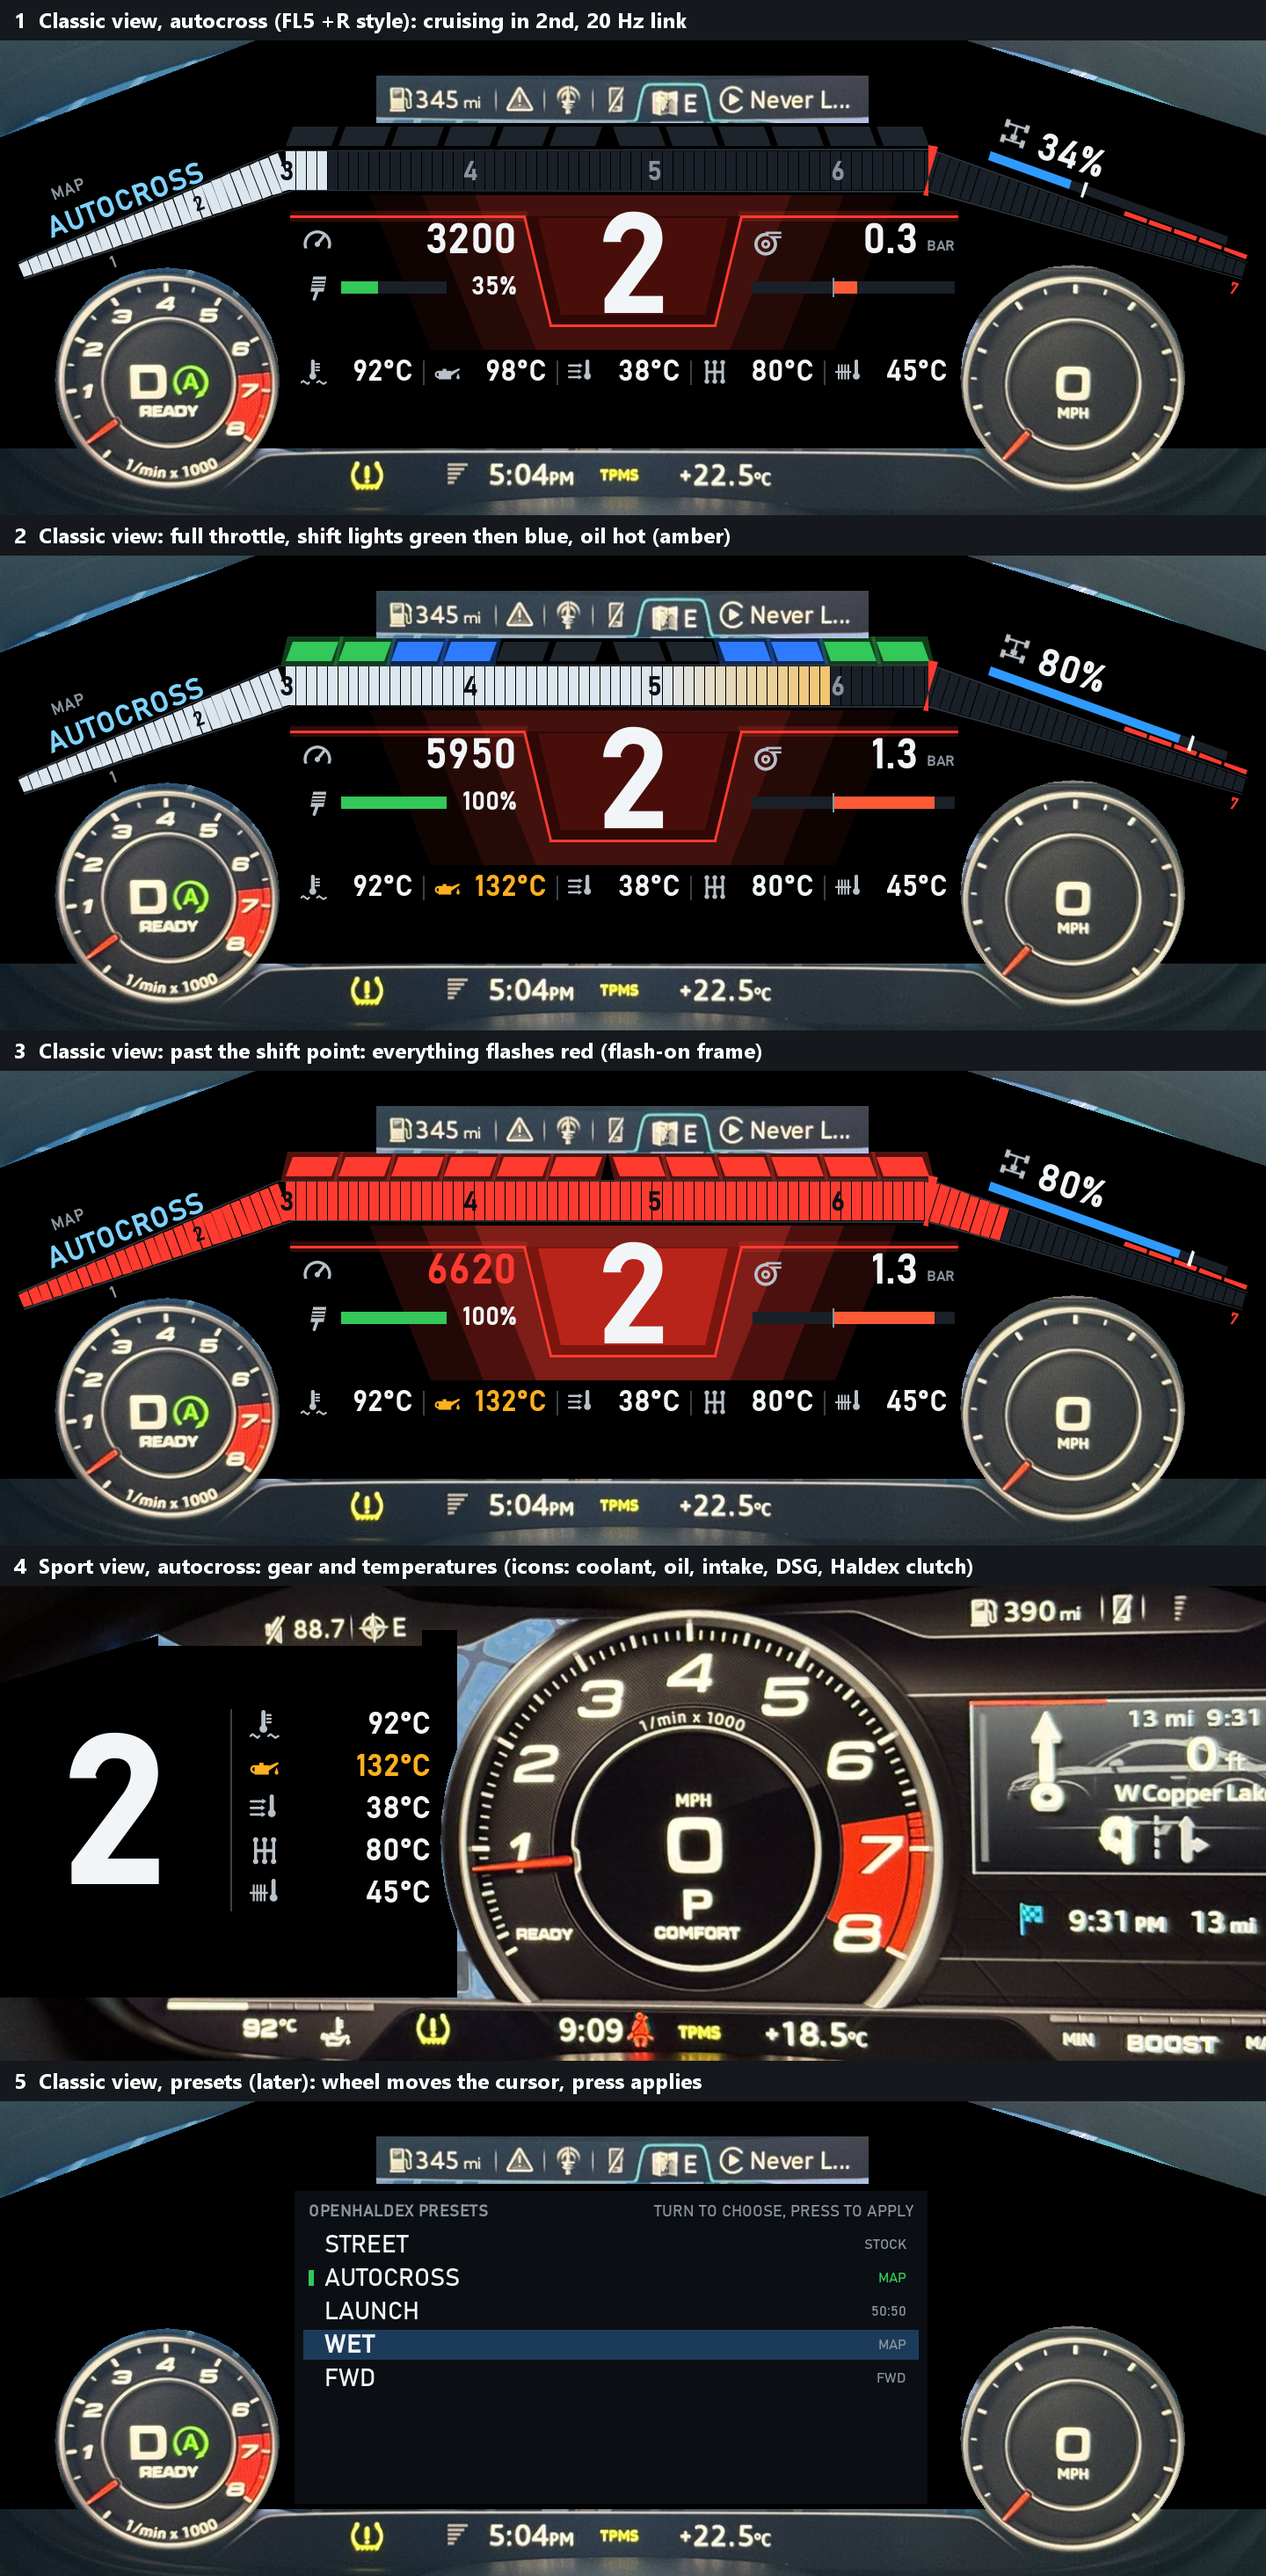
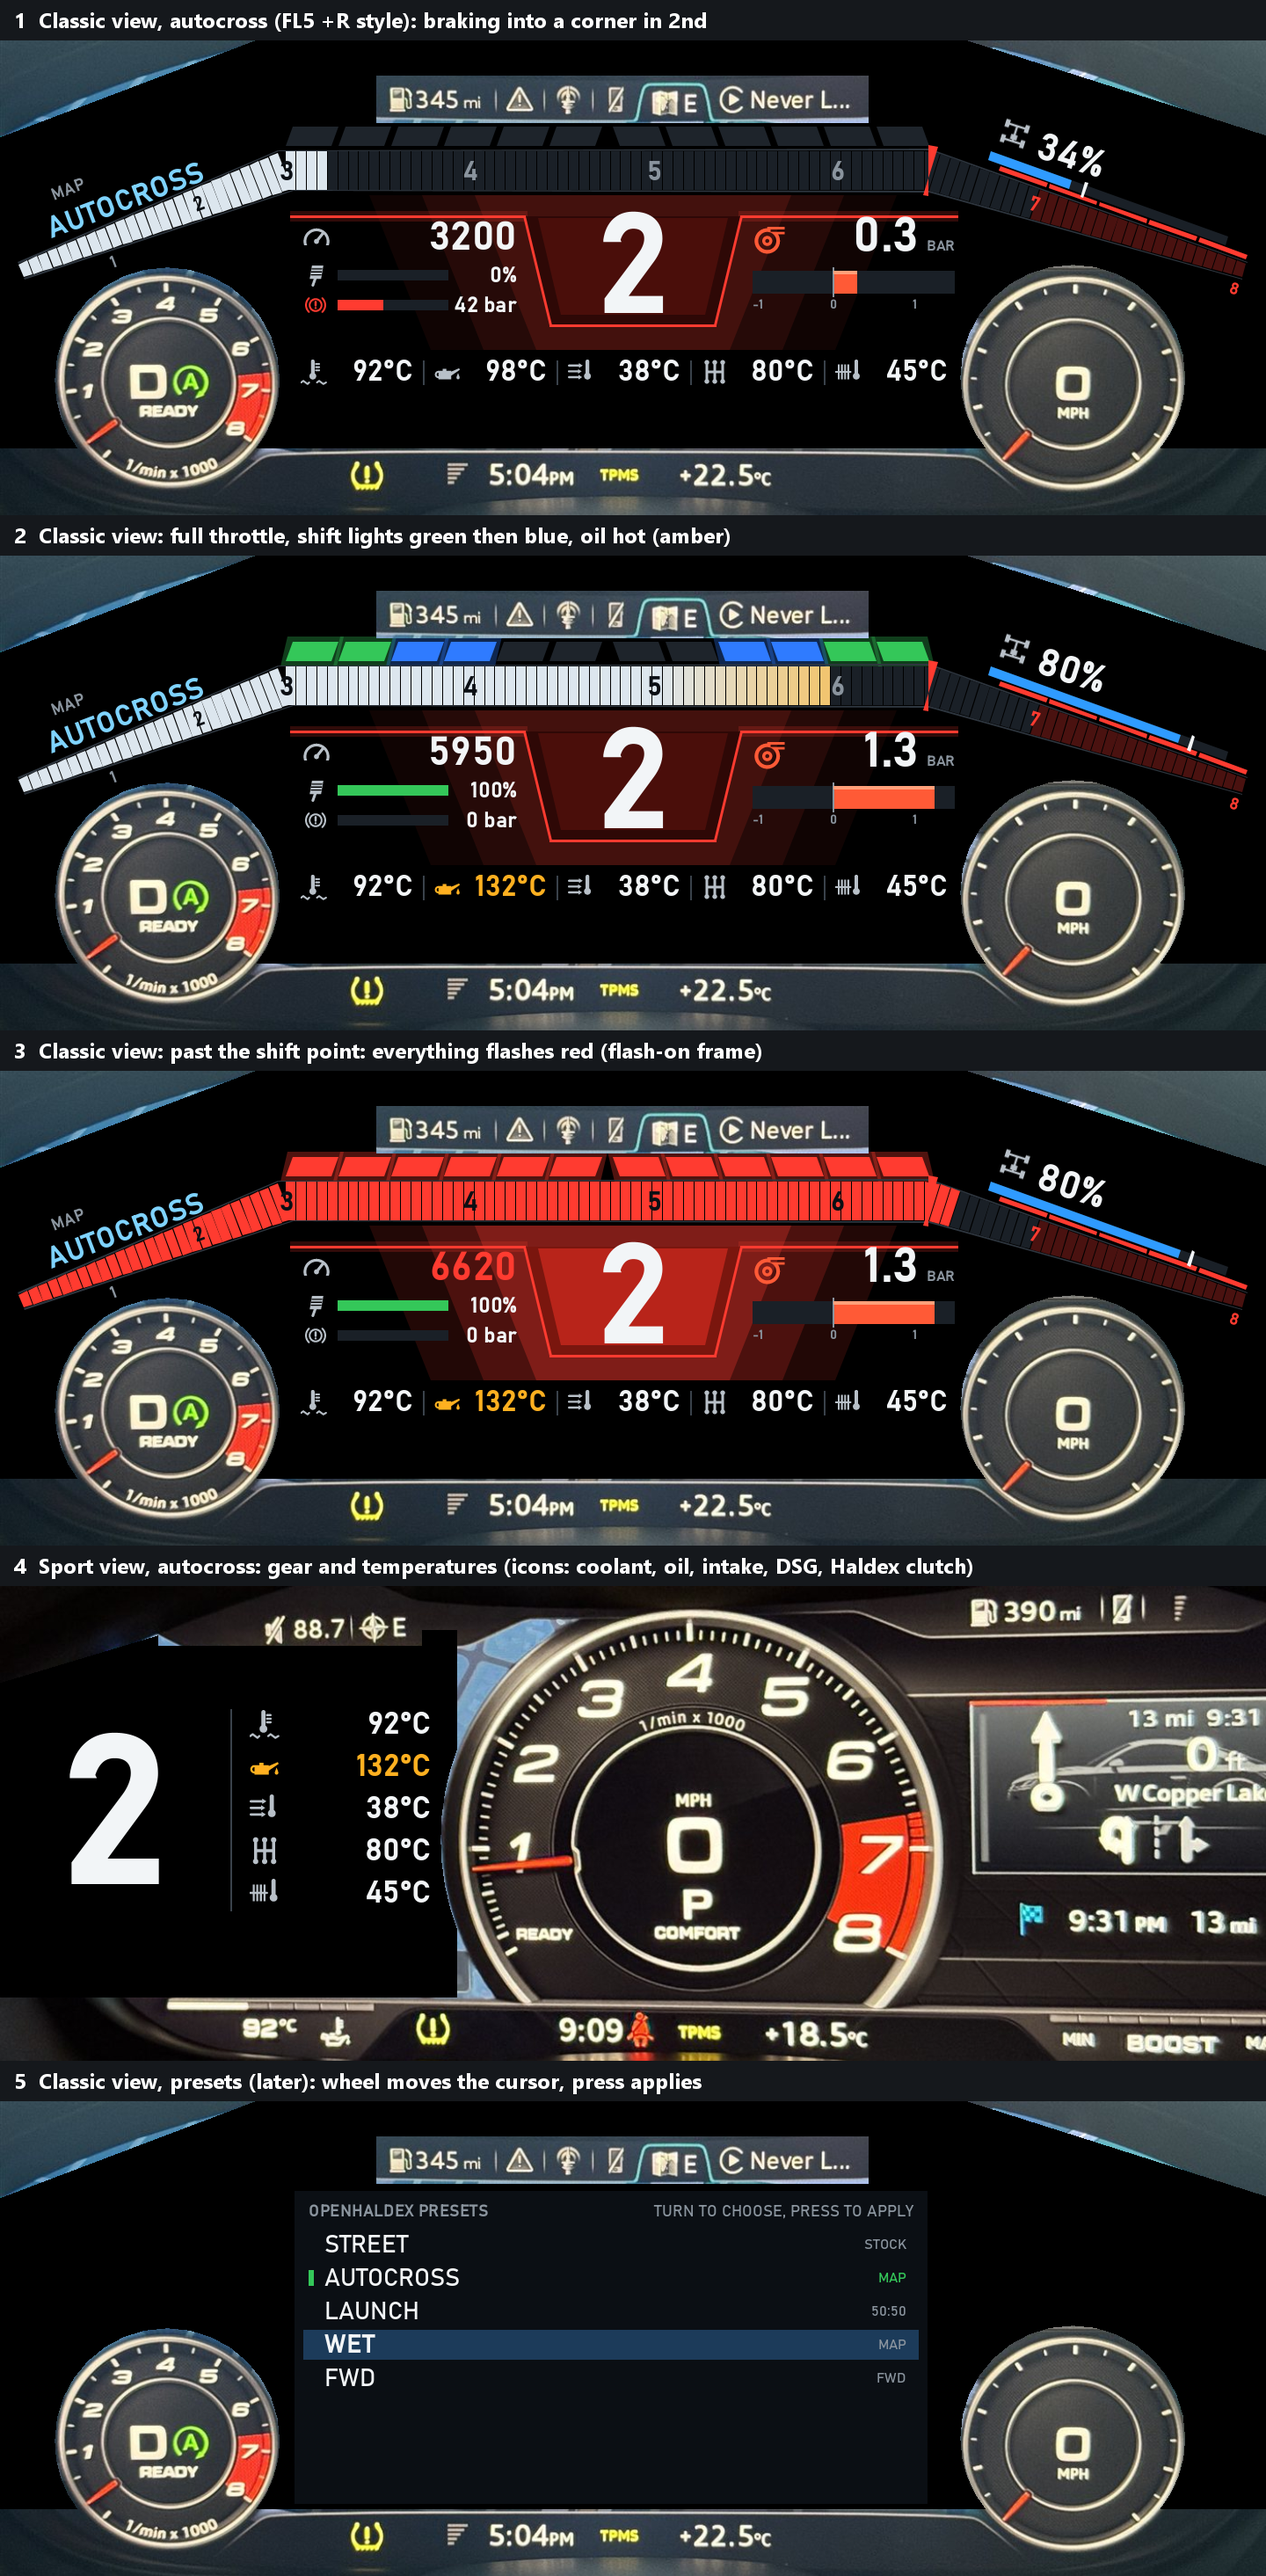
Telemetry: rev scale to 8000 with a red zone, brake pressure, bigger boost gauge

diff --git a/ports/tt-8s-mu1462/hmi/src/local/tt/TeleLayout.java b/ports/tt-8s-mu1462/hmi/src/local/tt/TeleLayout.java
@@ -58,6 +58,7 @@ public final class TeleLayout {
     public static final int CH_OIL = 6;
     public static final int CH_IAT = 7;
     public static final int CH_BOOST = 8;
+    public static final int CH_BRAKE = 21;
     public static final int CH_HX_TARGET = 10;
     public static final int CH_HX_ACTUAL = 11;
     public static final int CH_GEAR = 13;
@@ -88,6 +89,9 @@ public final class TeleLayout {
     public static final int PEDAL_FILL = 0x34C759FF;
     public static final int BOOST_FILL = 0xFF5A36FF;
     public static final int VAC_FILL = 0x5A7A99FF;
+    public static final int BRAKE_FILL = 0xFF3B30FF;
+    public static final int REDZONE = 0x4A1210FF;
+    public static final int BOOST_HI = 0xFFA07AFF;
     public static final int HALDEX = 0x2F9BFFFF;
     public static final int PRESET = 0x7FD3FFFF;
     public static final int COLD = 0x5AC8FAFF;
@@ -136,7 +140,9 @@ public final class TeleLayout {
     public int shiftRpm = 6500;
     public int limitRpm = 6800;
     public int barFromRpm = 0;
-    public int barToRpm = 7000;
+    public int barToRpm = 8000;
+    /** Start of the red zone on the strip (the limiter will move above 7000 later). */
+    public int redlineRpm = 7000;
     /** Temperatures in degrees F when true; the car uses C (user, 2026-11-23). */
     public boolean imperial = false;
     /** Boost in psi when true, bar when false. Channel 8 is taken as kPa above atmosphere. */
@@ -252,9 +258,9 @@ public final class TeleLayout {
             int from = sToRpm(s0);
             int c;
             if (limit)
-                c = blink ? RED : TRACK;
+                c = blink ? RED : from >= redlineRpm ? REDZONE : TRACK;
             else if (rpm <= from || !link)
-                c = TRACK;
+                c = from >= redlineRpm ? REDZONE : TRACK;
             else if (over)
                 c = RED;
             else
@@ -276,12 +282,12 @@ public final class TeleLayout {
             double sk0 = rpmToS(k * 1000);
             double th = 2 * half(sk0);
             boolean litK = link && rpm > k * 1000 && !(limit && !blink);
-            int nc = litK ? DARK_TEXT : k * 1000 >= shiftRpm ? RED : GREY;
+            int nc = litK ? DARK_TEXT : k * 1000 >= redlineRpm ? RED : GREY;
             if (th >= 30 && k * 1000 < barToRpm) {
                 int sz = (int) Math.min(30, th - 12);
                 slopeText(sk0 + 0.5, 0.46 * sz, sz, true, CENTER, nc, Integer.toString(k), true);
             } else {
-                slopeText(sk0 - 6, -(half(sk0) + 6), 18, true, CENTER, k * 1000 >= shiftRpm ? RED : GREY,
+                slopeText(sk0 - 6, -(half(sk0) + 6), 18, true, CENTER, k * 1000 >= redlineRpm ? RED : GREY,
                     Integer.toString(k), true);
             }
         }
@@ -330,24 +336,38 @@ public final class TeleLayout {
         slopeText(ba + 50, half(ba + 50) + 32 + 0.82 * 42, 42, true, LEFT, vc,
             ok(CH_HX_ACTUAL) ? percent(act) : "-", true);
 
-        // Left of the notch: rpm, and the accelerator pedal under it.
-        icon(GRID_X0 + 14, 212, 34, TeleIcons.TACH, ICONC, true);
-        text(NOTCH_X0 - 8, 204, 46, true, RIGHT, over ? RED : vc, ok(CH_RPM) ? Integer.toString(rpm) : "-", link);
-        text(NOTCH_X0 - 8, 210, 34, true, RIGHT, AMBER, "NO LINK", !link);
+        // Left of the notch: rpm, and the driver's inputs under it: accelerator (green) and brake
+        // pressure (red, full bar at 100 bar).
+        icon(GRID_X0 + 14, 210, 32, TeleIcons.TACH, ICONC, true);
+        text(NOTCH_X0 - 8, 202, 44, true, RIGHT, over ? RED : vc, ok(CH_RPM) ? Integer.toString(rpm) : "-", link);
+        text(NOTCH_X0 - 8, 208, 34, true, RIGHT, AMBER, "NO LINK", !link);
         int ped = ok(CH_PEDAL) ? clamp(r(val[CH_PEDAL]), 0, 100) : 0;
-        icon(GRID_X0 + 16, 266, 30, TeleIcons.PEDAL, ICONC, true);
-        bar(GRID_X0 + 58, 274, 120, 14, ped, 0, link ? PEDAL_FILL : GREY, -1);
-        text(NOTCH_X0 - 8, 266, 28, true, RIGHT, vc, ok(CH_PEDAL) ? percent(ped) : "-", true);
+        icon(GRID_X0 + 16, 254, 26, TeleIcons.PEDAL, ICONC, true);
+        bar(GRID_X0 + 54, 261, 126, 12, ped, 0, link ? PEDAL_FILL : GREY, -1);
+        text(NOTCH_X0 - 8, 255, 24, true, RIGHT, vc, ok(CH_PEDAL) ? percent(ped) : "-", true);
+        int brk = ok(CH_BRAKE) ? clamp(r(val[CH_BRAKE]), 0, 999) : 0;
+        icon(GRID_X0 + 16, 288, 26, TeleIcons.BRAKE, brk > 0 && link ? BRAKE_FILL : ICONC, true);
+        bar(GRID_X0 + 54, 295, 126, 12, Math.min(brk, 100), 0, link ? BRAKE_FILL : GREY, -1);
+        text(NOTCH_X0 - 8, 289, 24, true, RIGHT, vc, ok(CH_BRAKE) ? withUnit(brk, " bar") : "-", true);
 
-        // Right of the notch: boost, value and a bar from vacuum to boost with a tick at zero.
+        // Right of the notch: boost, big value and a fat bar from vacuum to boost, zero marked, scale
+        // under it. The fill has a light top edge.
         int kpa = ok(CH_BOOST) ? r(val[CH_BOOST]) : 0;
-        int zero = 40; // percent of the bar: -100 kPa .. +150 kPa
+        int zero = 40; // percent of the bar: -1.0 .. +1.5 bar
         int pos = clamp((kpa + 100) * 100 / 250, 0, 100);
-        icon(NOTCH_X1 + 12, 212, 34, TeleIcons.TURBO, ICONC, true);
-        text(GRID_X1 - 46, 204, 46, true, RIGHT, kpa > 0 && link ? WHITE : vc, ok(CH_BOOST) ? boost(kpa) : "-", true);
+        boolean boosting = link && kpa > 0;
+        int bx = NOTCH_X1 + 12;
+        int bw = GRID_X1 - NOTCH_X1 - 16;
+        icon(bx, 206, 38, TeleIcons.TURBO, boosting ? BOOST_FILL : ICONC, true);
+        text(GRID_X1 - 44, 196, 54, true, RIGHT, boosting ? WHITE : vc, ok(CH_BOOST) ? boost(kpa) : "-", true);
         text(GRID_X1 - 4, 226, 16, true, RIGHT, GREY, boostPsi ? "PSI" : "BAR", true);
-        bar(NOTCH_X1 + 12, 274, GRID_X1 - NOTCH_X1 - 16, 14, pos, zero,
-            !link ? GREY : kpa >= 0 ? BOOST_FILL : VAC_FILL, zero);
+        bar(bx, 262, bw, 26, pos, zero, !link ? GREY : kpa >= 0 ? BOOST_FILL : VAC_FILL, zero);
+        int a0 = Math.min(zero, pos);
+        int b0 = Math.max(zero, pos);
+        box(bx + bw * a0 / 100, 262, bw * (b0 - a0) / 100, 4, boosting ? BOOST_HI : GREY, link && kpa > 0);
+        text(bx, 294, 14, true, LEFT, GREY, boostPsi ? "-14" : "-1", true);
+        text(bx + bw * zero / 100, 294, 14, true, CENTER, GREY, "0", true);
+        text(bx + bw * 80 / 100, 294, 14, true, CENTER, GREY, boostPsi ? "14.5" : "1", true);
 
         // Temperatures in one row, an icon and a value in each cell, short dividers between.
         int cw = (GRID_X1 - GRID_X0) / T_CH.length;
@@ -384,6 +404,12 @@ public final class TeleLayout {
         int b = Math.max(fromPct, pct);
         box(x0 + bw * a / 100, y0, bw * (b - a) / 100, bh, c, b > a);
         box(x0 + bw * tickPct / 100 - 1, y0 - 4, 2, bh + 8, GREY, tickPct >= 0);
+    }
+
+    private static String withUnit(int v, String unit) {
+        StringBuffer sb = new StringBuffer();
+        sb.append(v).append(unit);
+        return sb.toString();
     }
 
     private String boost(int kpa) {

diff --git a/ports/tt-8s-mu1462/gauges/tools/TelePreview.java b/ports/tt-8s-mu1462/gauges/tools/TelePreview.java
@@ -38,7 +38,7 @@ public class TelePreview {
         BufferedImage small = ImageIO.read(new File(a[1]));
         boolean masks = a.length > 3 && a[3].equals("masks");
         String[] caps = {
-            "1  Classic view, autocross (FL5 +R style): cruising in 2nd, 20 Hz link",
+            "1  Classic view, autocross (FL5 +R style): braking into a corner in 2nd",
             "2  Classic view: full throttle, shift lights green then blue, oil hot (amber)",
             "3  Classic view: past the shift point: everything flashes red (flash-on frame)",
             "4  Sport view, autocross: gear and temperatures (icons: coolant, oil, intake, DSG, Haldex clutch)",
@@ -55,7 +55,8 @@ public class TelePreview {
         set(t, TeleLayout.CH_GEAR, 2);
         set(t, TeleLayout.CH_HX_TARGET, 40);
         set(t, TeleLayout.CH_HX_ACTUAL, 34);
-        set(t, TeleLayout.CH_PEDAL, 35);
+        set(t, TeleLayout.CH_PEDAL, 0);
+        set(t, TeleLayout.CH_BRAKE, 42);
         set(t, TeleLayout.CH_BOOST, 30);
         panel(g, 0, large, t, TeleLayout.VIEW_LARGE, TeleLayout.PAGE_LIVE, caps[0], masks);
 
@@ -64,6 +65,7 @@ public class TelePreview {
         set(t, TeleLayout.CH_HX_ACTUAL, 80);
         set(t, TeleLayout.CH_OIL, 132);
         set(t, TeleLayout.CH_PEDAL, 100);
+        set(t, TeleLayout.CH_BRAKE, 0);
         set(t, TeleLayout.CH_BOOST, 125);
         panel(g, 1, large, t, TeleLayout.VIEW_LARGE, TeleLayout.PAGE_LIVE, caps[1], masks);
 

diff --git a/ports/tt-8s-mu1462/hmi/src/local/tt/TeleIcons.java b/ports/tt-8s-mu1462/hmi/src/local/tt/TeleIcons.java
@@ -18,7 +18,8 @@ public final class TeleIcons {
     public static final int WIFI = 7;
     public static final int PEDAL = 8;
     public static final int TURBO = 9;
-    public static final int COUNT = 10;
+    public static final int BRAKE = 10;
+    public static final int COUNT = 11;
 
     // Shape ops. CAP x0 y0 x1 y1 r (thick line, round ends) | CIRC x y r | RECT x0 y0 x1 y1 |
     // POLY n x0 y0 ... | CUT_CIRC x y r | CUT_RECT x0 y0 x1 y1 | CUT_POLY n x0 y0 ...
@@ -70,6 +71,10 @@ public final class TeleIcons {
         {CIRC, 44, 58, 38, CUT_CIRC, 44, 58, 27, CIRC, 44, 58, 15, CUT_CIRC, 44, 58, 6,
             RECT, 44, 16, 96, 38, CUT_RECT, 54, 24, 96, 31, CUT_CIRC, 44, 58, 27, CIRC, 44, 58, 15,
             CUT_CIRC, 44, 58, 6},
+        // BRAKE: the brake symbol, a ring with an exclamation mark between two brackets
+        {CIRC, 50, 50, 46, CUT_CIRC, 50, 50, 38, CUT_RECT, 24, 0, 76, 100, CUT_RECT, 0, 0, 100, 16,
+            CUT_RECT, 0, 84, 100, 100, CIRC, 50, 50, 30, CUT_CIRC, 50, 50, 22,
+            CAP, 50, 36, 50, 52, 4.5f, CIRC, 50, 63, 4.5f},
     };
 
     private TeleIcons() {

diff --git a/ports/tt-8s-mu1462/wiki/Telemetry.md b/ports/tt-8s-mu1462/wiki/Telemetry.md
@@ -194,8 +194,8 @@ wsl -d Ubuntu-24.04 -u root -- sh -c 'cd /mnt/c/.../gauges/headunit && docker ru
     - Rev strip: straight pieces following the cluster housing, up the frame's top-left edge, flat,
       down the top-right edge. The flat middle is the fattest part (44 px) and ends exactly at the
       shift point; the slopes taper to 16 px. The scale has three parts: left slope 0-3000 rpm,
-      middle 3000 rpm to the shift point, right slope shift point to 7000 (the over-rev zone,
-      stretched so the limiter range reads clearly). Numbers sit inside the strip, dark on the lit
+      middle 3000 rpm to the shift point, right slope shift point to 8000 (room for a higher
+      rev limit later). Red zone from 7000: the unlit track there is dark red and its numbers red. Numbers sit inside the strip, dark on the lit
       part. Dark track with hairline edges; lit from cool white warming to amber over the last
       1500 rpm before the shift point, all red past it, flashing at the limiter; red marks over the
       limiter range on the outer edge.
@@ -204,10 +204,11 @@ wsl -d Ubuntu-24.04 -u root -- sh -c 'cd /mnt/c/.../gauges/headunit && docker ru
       one). From the shift point all flash red, together with the gear notch and the red glow
       behind it.
     - Gear in a two-layer red notch under a red line with a soft glow.
-    - Left of the notch: rpm, and the accelerator pedal (bar and percent) under it. Right of it:
-      boost (value, and a bar from vacuum to boost with a tick at zero; bar by default, psi as an
-      option; channel 8 is taken as kPa above atmosphere and probably reads 0 until the second
-      LilyGO).
+    - Left of the notch: rpm, and the driver's inputs under it: accelerator (green bar, percent)
+      and brake pressure (channel 21, red bar full at 100 bar, value in bar). Right of it: boost,
+      big value in bar (user, 2026-11-23; psi as an option) over a fat bar from -1 to +1.5 bar with
+      zero marked and a scale under it; channel 8 is taken as kPa above atmosphere and probably
+      reads 0 until the second LilyGO.
     - Top-left pocket, tilted along the slope: the active preset with its mode, and a Wi-Fi warning
       icon only while the link is slow (under 10 Hz) or lost. Top-right pocket, tilted: Haldex lock,
       icon and big percent over a bar along the slope with the target tick.
